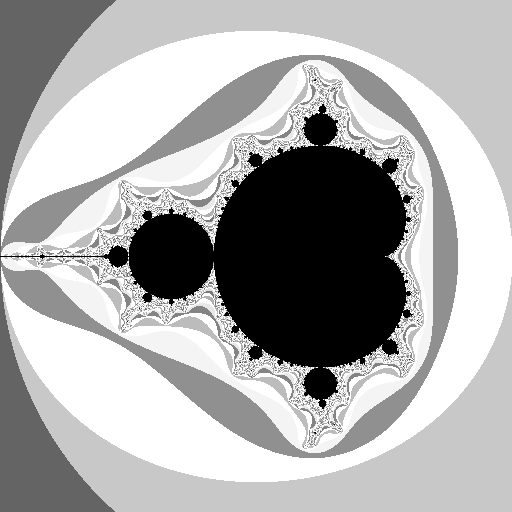
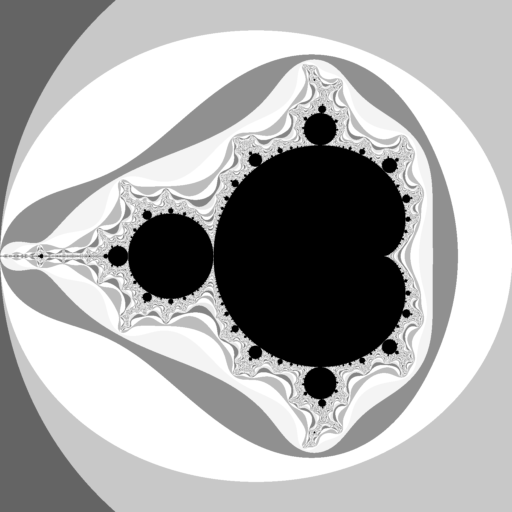
Add supersampling

Changed region(s): [[0.0, 0.0938, 0.8438, 0.875]]

diff --git a/src/main.rs b/src/main.rs
@@ -1,7 +1,7 @@
 use std::time::{Instant, Duration};
 use std::sync::Mutex;
 
-use image::ColorType;
+use image::{GrayImage, imageops::FilterType};
 
 use clap::Clap;
 
@@ -26,6 +26,10 @@ struct Opts {
     /// Resolution of the image (only supports square output for now)
     #[clap(long, default_value="1024")]
     resolution: u32,
+
+    /// Generate at a higher resolution and scale down
+    #[clap(long, default_value="2")]
+    supersample: u32,
 
     /// Display a progress bar
     #[clap(long, short)]
@@ -112,8 +116,8 @@ where F: Fn() + Sync {
 fn main() {
     let opts = Opts::parse();
     let region = Region {
-        img_w: opts.resolution,
-        img_h: opts.resolution,
+        img_w: opts.resolution * opts.supersample,
+        img_h: opts.resolution * opts.supersample,
         real_min: opts.real - opts.scale,
         real_max: opts.real + opts.scale,
         im_min: opts.imaginary - opts.scale,
@@ -149,7 +153,9 @@ fn main() {
 
     println!("Saving image...");
 
-    let result = image::save_buffer(opts.output, &pixels, region.img_w, region.img_h, ColorType::L8);
+    let img = GrayImage::from_vec(region.img_w, region.img_h, pixels).unwrap();
+    let img_ = image::imageops::resize(&img, opts.resolution, opts.resolution, FilterType::Triangle);
+    let result = img_.save(opts.output);
     if let Err(e) = result {
         println!("Failed to save image: {}", e);
         std::process::exit(1);
